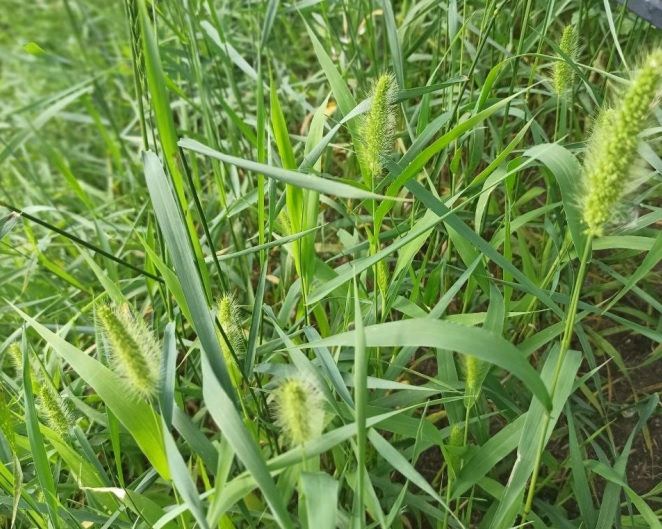
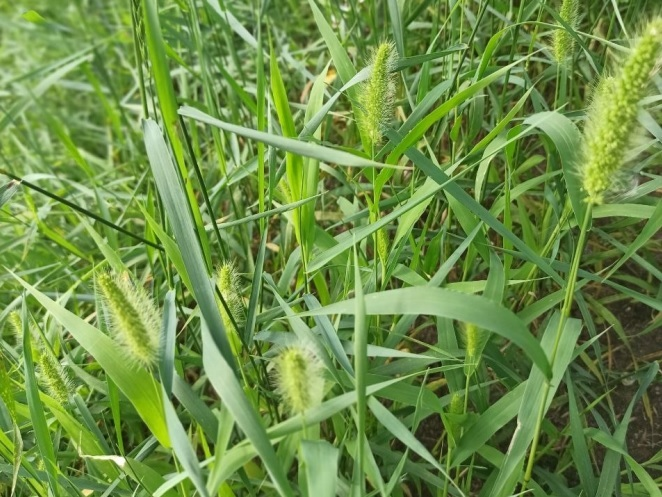
fix2

diff --git a/blog/2026-08/02-afterlife.md b/blog/2026-08/02-afterlife.md
@@ -26,7 +26,7 @@ And here in those woods he lays in his deep underground tomb, undisturbed by tim
 
 ## Cat's Tails
 
-Oh and that story I told about my meditation spot being golden yellow, because of the Sun God's gift? This is 5 meter away from the spot:
+Oh and that story I told about my meditation spot being golden yellow, because of the Sun God's gift? This is 5 meters away from the spot:
 
 ![img](blog/2026-08/img/cats_tails.jpg)
 
